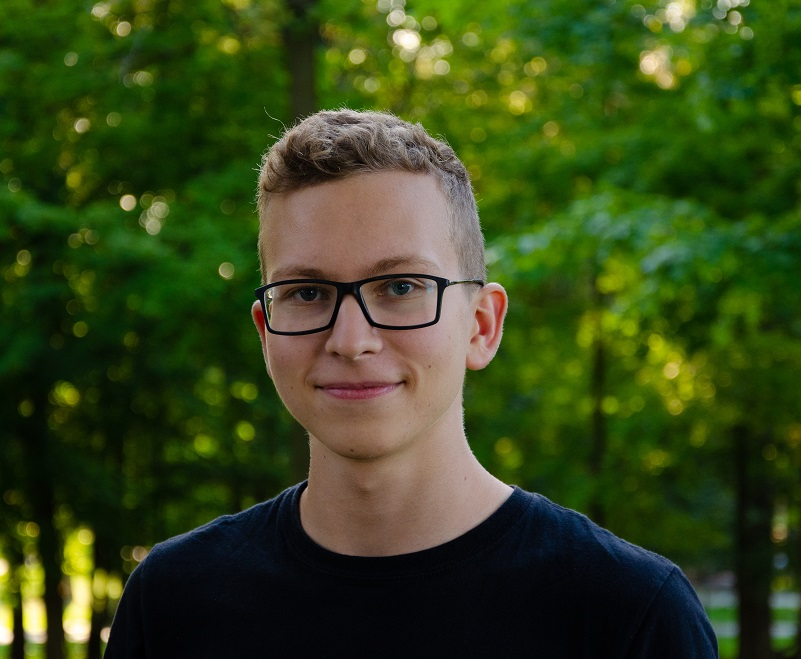
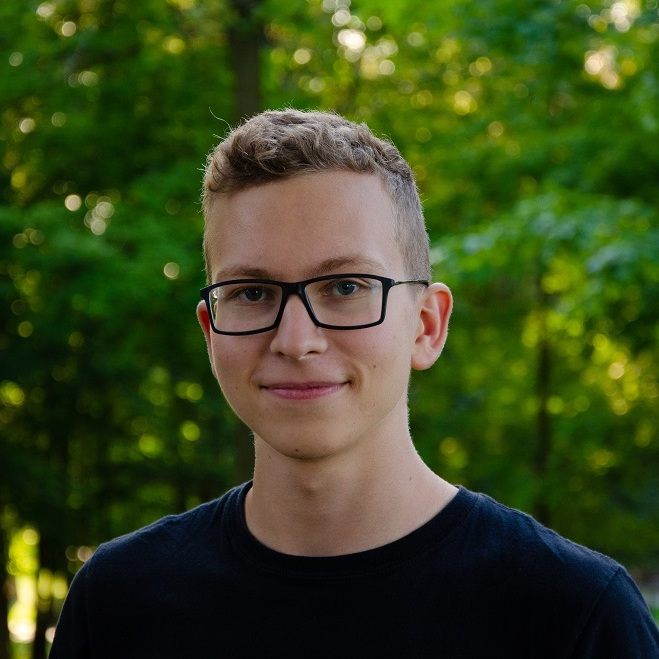
Make profile picture smaller

diff --git a/data/articles/Profile.html b/data/articles/Profile.html
@@ -1,11 +1,11 @@
 <h1 id="post-title">Andrii Denysenko</h1>
-<img src="img/Profile/thumb.png" rel="thumbnail" alt="profile_picture">
+<img 
+    class="circle" 
+    src="img/Profile/thumb.png" 
+    rel="thumbnail" 
+    alt="profile picture" 
+>
 <div id="post-content" class="container">
-<<<<<<< HEAD
-=======
-    <img src="img/Profile/thumb.jpg" rel="thumbnail" alt="profile picture">
-    
->>>>>>> 27b00ee (Fix header)
     <h2>Hi!</h2>
     
     <p>I'm a full-stack software developer - always searching for new exciting projects to work on.</p>

diff --git a/css/main.css b/css/main.css
@@ -19,7 +19,7 @@
 
 body {
     display: grid;
-    grid-template-rows: 10vh auto 20vh;
+    grid-template-rows: 15vh auto 20vh;
     grid-template-columns: auto;
     grid-row-gap: 2rem;
     grid-template-areas:
@@ -48,10 +48,6 @@ header {
 }
 
 #logo {
-<<<<<<< HEAD
-=======
-    width: 7vh;
->>>>>>> 27b00ee (Fix header)
     margin: auto;
     cursor: pointer;
     z-index: 2;

diff --git a/data/components/project-post.css b/data/components/project-post.css
@@ -6,6 +6,13 @@
     width: 60vw;
 }
 
+img.circle {
+    object-fit: cover;
+    border-radius: 50% !important;
+    height: min(30vh, 30vw);
+    width: min(30vh, 30vw);
+}
+
 #post>img, #post-content>img {
     max-width: 80%;
     max-height: 50vh;
